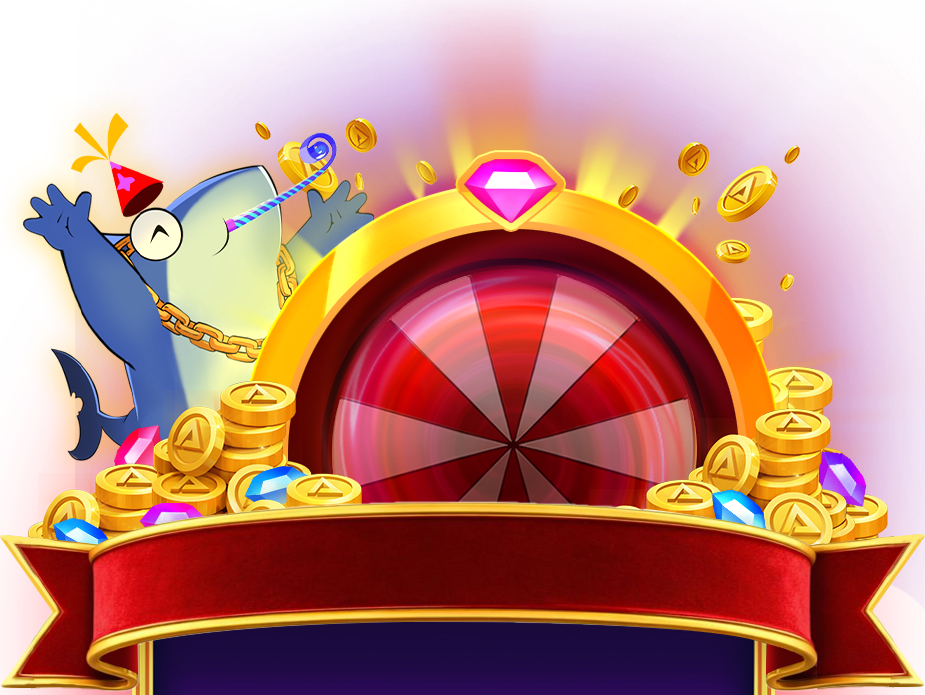
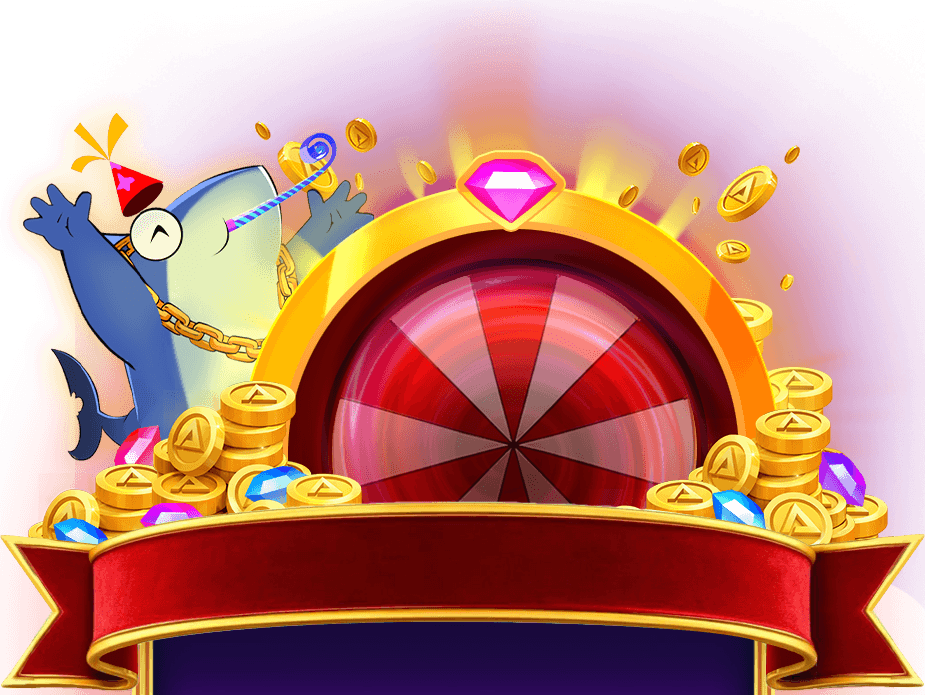
fix alignement portrait and landscape added new images

diff --git a/src/components/TournamentPopup.svelte b/src/components/TournamentPopup.svelte
@@ -489,7 +489,7 @@
         <img class="promo-image-bottom" src={promoBottom} alt="" aria-hidden="true" />
       </div>
       <div class="promo-image-overlay-content">
-        <h3 id="popup-title" class="promo-title">{title}</h3>
+        <div id="popup-title" class="promo-title">{title}</div>
         {#if mode === 'finished'}
           <div class="promo-finished-message">
             {tr('tournamentFinishedIntroMessage')} <br>
@@ -513,7 +513,8 @@
               {#each prizesToShow as prize, index}
                 {#if prize?.value !== undefined && prize?.value !== null}
                   <li>
-                    {tr('tournamentStartedPrizesMessage', { totalAmount: prize.amount })} <b>{getStartedPrizeValue(prize, index)}</b>
+                    {tr('tournamentStartedPrizesMessage', { totalAmount: prize.amount })} 
+                    <span>{getStartedPrizeValue(prize, index)}</span>
                   </li>
                 {/if}
               {/each}
@@ -546,7 +547,7 @@
       <div class="promo-actions">
         {#if showOptOutButton}
           <button
-            class="promo-image-button"
+            class="promo-image-button secondary"
             on:mouseenter={() => (secondaryButtonState = 'hover')}
             on:mouseleave={() => (secondaryButtonState = 'normal')}
             on:mousedown={() => (secondaryButtonState = 'down')}
@@ -580,25 +581,61 @@
 <style>
 :root{--primary-color: #7D4CDB;--background-front: #FFFFFF;--background-back: #EDEDED;--text-color: #000000;--secondary-text-color: #666666;--overlay-background: rgba(0, 0, 0, .5)}
 .promo-modal-overlay{position:fixed;top:0;left:0;right:0;bottom:0;background:var(--overlay-background);display:flex;align-items:center;justify-content:center;z-index:999999 !important;pointer-events:auto !important}
-.promo-image-popup{position:relative;width:min(95vw,800px);min-height:600px;border-radius:10px;overflow:hidden;box-shadow:0 8px 22px rgba(0,0,0,.35);font-family:Helvetica,Arial,sans-serif;background:transparent;pointer-events:auto}
-.promo-image-container{position:relative;width:100%;height:auto;display:flex;flex-direction:column}
-.promo-image-top{display:block;width:100%;height:auto;object-fit:contain;aspect-ratio:925/681}
-.promo-image-bottom{display:block;width:100%;height:auto;object-fit:contain;aspect-ratio:925/352}
+.promo-image-popup{position:relative;width:400px;height:470px;border-radius:10px;overflow:hidden;box-shadow:0 8px 22px rgba(0,0,0,.35);font-family:Helvetica,Arial,sans-serif;background:transparent;pointer-events:auto;transform-origin:center center}
+.promo-image-container{position:relative;width:400px;height:470px;display:flex;flex-direction:column;transform:translateY(-10px)}
+.promo-image-top{display:block;width:400px;height:auto;object-fit:contain;flex-shrink:0;aspect-ratio:925/695}
+.promo-image-bottom{display:block;width:400px;height:auto;object-fit:contain;flex-shrink:0;aspect-ratio:925/352}
 .promo-image-overlay-content{position:absolute;inset:0;background:linear-gradient(180deg,rgba(0,0,0,0),rgba(0,0,0,.35));padding:20px;color:#fff;pointer-events:none}
-.promo-title{position:absolute;left:50%;top:43%;width:calc(100% - 40px);margin:0;transform:translateX(-50%);text-align:center;font-size:28px;line-height:1.05;text-shadow:0 2px 4px rgba(0,0,0,.6)}
-.promo-image-message{position:absolute;left:50%;top:53%;width:calc(100% - 40px);transform:translateX(-50%);text-align:center;font-weight:600;text-shadow:0 1px 2px rgba(0,0,0,.6)}
-.promo-finished-message{position:absolute;left:50%;top:53%;width:calc(100% - 40px);transform:translateX(-50%);text-align:center;font-weight:600;text-shadow:0 1px 2px rgba(0,0,0,.6);margin-top:10px}
-.promo-win-value{position:absolute;left:50%;top:59%;width:calc(100% - 40px);transform:translateX(-50%);text-align:center;font-size:22px;font-weight:700;color:#fff;text-shadow:0 2px 4px rgba(0,0,0,.7)}
-.promo-win-list{top:58%;left:50%;width:max-content;max-width:calc(100% - 80px);transform:translateX(-50%);text-align:left;font-size:18px}
-.promo-win-list-ul{margin:0;padding-left:20px}
-.promo-qualifying-bet{position:absolute;left:50%;top:65%;width:calc(100% - 40px);transform:translateX(-50%);text-align:center;font-size:13px;text-shadow:0 1px 2px rgba(0,0,0,.7)}
-.promo-end-date{position:absolute;left:50%;top:70%;width:calc(100% - 40px);transform:translateX(-50%);text-align:center;font-size:14px;text-shadow:0 1px 2px rgba(0,0,0,.6)}
-.promo-terms-link{position:absolute;left:50%;top:75%;transform:translateX(-50%);background:transparent;border:0;color:#fff;text-decoration:underline dotted;cursor:pointer;font-size:13px;font-weight:600;pointer-events:auto}
-.promo-actions{position:absolute;left:50%;right:auto;bottom:58px;display:flex;justify-content:center;gap:8px;padding:0 14px;transform:translateX(-50%);pointer-events:auto}
-.promo-image-button{position:relative;border:0;background:transparent;padding:0;cursor:pointer;min-width:120px}
-.promo-image-button-bg{display:block;width:120px;height:auto;user-select:none;pointer-events:none}
-.promo-image-button-label{position:absolute;inset:0;display:flex;align-items:center;justify-content:center;color:#fff;font-size:12px;font-weight:700;letter-spacing:.4px;text-transform:uppercase;text-shadow:0 1px 2px rgba(0,0,0,.5)}
-@media (max-width: 768px){.promo-image-popup{width:95vw}.promo-image-top{aspect-ratio:925/681}.promo-image-bottom{aspect-ratio:925/352}.promo-image-overlay-content{inset:0;padding:14px}.promo-title{top:22%;width:calc(100% - 24px);font-size:22px}.promo-image-message{top:51%;width:calc(100% - 24px)}.promo-finished-message{top:51%;width:calc(100% - 24px);font-size:14px}.promo-win-value{top:56%;width:calc(100% - 24px);font-size:20px}.promo-win-list{top:58%;max-width:calc(100% - 40px);font-size:16px}.promo-qualifying-bet{top:63%;width:calc(100% - 24px);font-size:12px}.promo-end-date{top:69%;width:calc(100% - 24px);font-size:12px}.promo-terms-link{top:74%;font-size:12px}.promo-actions{gap:8px;bottom:clamp(35px, 6vh, 50px)}.promo-image-button,.promo-image-button-bg{width:120px;min-width:120px}.promo-image-button-label{font-size:12px}}
+.promo-title{position:absolute;left:50%;top:225px;width:360px;margin:0;transform:translateX(-50%);text-align:center;font-family:'Roboto-Bold',sans-serif;font-size:20px;font-weight:bolder;line-height:1.05;color:#ffff00;-webkit-text-stroke:0.5px #000000}
+.promo-image-message{position:absolute;left:50%;top:269px;width:360px;transform:translateX(-50%);text-align:center;font-weight:600;font-size:12px;color:#ffff00;text-shadow:0 1px 2px rgba(0,0,0,.6)}
+.promo-finished-message{position:absolute;left:50%;top:261px;width:360px;transform:translateX(-50%);text-align:center;font-weight:600;font-size:12px;text-shadow:0 1px 2px rgba(0,0,0,.6);margin-top:5px}
+.promo-win-value{position:absolute;left:50%;top:287px;width:360px;transform:translateX(-50%);text-align:center;font-size:16px;color:#ffffff;-webkit-text-stroke:0.5px #ee141a}
+.prize-text-small{position:relative;font-family:'Roboto-Bold',sans-serif;font-weight:bolder;display:inline-block;color:#ffffff;-webkit-text-stroke:0.5px #ee141a}
+.promo-win-list{top:282px;left:50%;width:max-content;max-width:320px;transform:translateX(-50%);text-align:center;font-size:12px}
+.promo-win-list-ul{margin:0;padding-left:0;list-style:none}
+.promo-qualifying-bet{position:absolute;left:50%;top:385px;width:360px;transform:translateX(-50%);text-align:center;font-size:7px;text-shadow:0 1px 2px rgba(0,0,0,.7)}
+.promo-end-date{position:absolute;left:50%;top:397px;width:360px;transform:translateX(-50%);text-align:center;font-size:7px;text-shadow:0 1px 2px rgba(0,0,0,.6)}
+.promo-terms-link{position:absolute;left:50%;top:409px;transform:translateX(-50%);background:transparent;border:0;color:#fff;text-decoration:underline dotted;cursor:pointer;font-size:7px;font-weight:600}
+.promo-actions{position:absolute;left:50%;right:auto;bottom:11px;display:flex;justify-content:center;gap:4px;padding:0 7px;transform:translateX(-50%);pointer-events:auto}
+.promo-image-button{position:relative;border:0;background:transparent;padding:0;cursor:pointer;min-width:60px}
+.promo-image-button-bg{display:block;width:60px;height:auto;user-select:none;pointer-events:none}
+.promo-image-button-label{position:absolute;inset:0;display:flex;align-items:center;justify-content:center;font-family:'Roboto',Arial,sans-serif;font-size:9px;font-weight:900;letter-spacing:.2px;text-transform:uppercase;color:#000000 !important}
+.promo-image-button.secondary .promo-image-button-label{color:#000000 !important}
+/* Responsive scaling uniforme */
+@media (min-width: 700px) {
+  .promo-image-popup {
+    transform: scale(1.3);
+  }
+}
 
-@media (orientation: landscape){.promo-image-popup{transform:scale(0.8);transform-origin:center}}
+@media (min-width: 900px) {
+  .promo-image-popup {
+    transform: scale(1.6);
+  }
+}
+
+@media (max-width: 399px) {
+  .promo-image-popup {
+    transform: scale(0.9);
+  }
+}
+
+@media (max-height: 470px) {
+  .promo-image-popup {
+    transform: scale(0.8);
+  }
+}
+
+@media (max-height: 368px) {
+  .promo-image-popup {
+    transform: scale(0.7);
+  }
+}
+
+/* Per schermi molto piccoli */
+@media (max-width: 320px) or (max-height: 300px) {
+  .promo-image-popup {
+    transform: scale(0.6);
+  }
+}
 </style>

diff --git a/src/components/PrizeDropPopup.svelte b/src/components/PrizeDropPopup.svelte
@@ -341,7 +341,7 @@
         <img class="promo-image-bottom" src={promoBottom} alt="" aria-hidden="true" />
       </div>
       <div class="promo-image-overlay-content">
-        <h3 id="popup-title" class="promo-title">{title}</h3>
+        <div id="popup-title" class="promo-title">{title}</div>
         <div class="promo-image-message">{message}</div>
 
         {#if mode === 'prizeWon'}
@@ -392,7 +392,7 @@
       <div class="promo-actions">
         {#if showOptOutButton}
           <button
-            class="promo-image-button"
+            class="promo-image-button secondary"
             on:mouseenter={() => (secondaryButtonState = 'hover')}
             on:mouseleave={() => (secondaryButtonState = 'normal')}
             on:mousedown={() => (secondaryButtonState = 'down')}
@@ -427,29 +427,65 @@
 :root{--primary-color: #7D4CDB;--background-front: #FFFFFF;--background-back: #EDEDED;--text-color: #000000;--secondary-text-color: #666666;--overlay-background: rgba(0, 0, 0, .5)}
 body.dark-theme{--primary-color: #7D4CDB;--background-front: #222222;--background-back: #333333;--text-color: #FFFFFF;--secondary-text-color: #CCCCCC}
 .promo-modal-overlay{position:fixed;top:0;left:0;right:0;bottom:0;background:var(--overlay-background);display:flex;align-items:center;justify-content:center;z-index:999999 !important;pointer-events:auto !important}
-.promo-image-popup{position:relative;width:min(95vw,800px);min-height:600px;border-radius:10px;overflow:hidden;box-shadow:0 8px 22px rgba(0,0,0,.35);font-family:Helvetica,Arial,sans-serif;background:transparent;pointer-events:auto}
-.promo-images-container{display:flex;flex-direction:column;width:100%;min-height:600px}
+.promo-image-popup{position:relative;width:400px;height:467px;border-radius:10px;overflow:hidden;box-shadow:0 8px 22px rgba(0,0,0,.35);font-family:Helvetica,Arial,sans-serif;background:transparent;pointer-events:auto;transform-origin:center center}
+.promo-images-container{display:flex;flex-direction:column;width:400px;height:467px;transform:translateY(-7px)}
+
 .promo-image-top{display:block;width:100%;height:auto;object-fit:contain;flex-shrink:0;aspect-ratio:925/681}
 .promo-image-bottom{display:block;width:100%;height:auto;object-fit:contain;flex-shrink:0;aspect-ratio:925/352}
 .promo-image-overlay-content{position:absolute;inset:0;background:linear-gradient(180deg,rgba(0,0,0,0),rgba(0,0,0,.35));padding:20px;color:#fff;pointer-events:none}
-.promo-title{position:absolute;left:50%;top:43%;width:calc(100% - 40px);margin:0;transform:translateX(-50%);text-align:center;font-size:28px;line-height:1.05;text-shadow:0 2px 4px rgba(0,0,0,.6)}
-.promo-image-message{position:absolute;left:50%;top:53%;width:calc(100% - 40px);transform:translateX(-50%);text-align:center;font-weight:600;text-shadow:0 1px 2px rgba(0,0,0,.6)}
-.promo-win-value{position:absolute;left:50%;top:58%;width:calc(100% - 40px);transform:translateX(-50%);text-align:center;font-size:26px;font-weight:800;color:#fff;text-shadow:0 2px 4px rgba(0,0,0,.7)}
-.promo-qualifying-bet{position:absolute;left:50%;top:64%;width:calc(100% - 40px);transform:translateX(-50%);text-align:center;font-size:13px;text-shadow:0 1px 2px rgba(0,0,0,.7)}
-.promo-prizes-list{position:absolute;left:50%;top:58%;width:calc(100% - 40px);max-width:400px;transform:translateX(-50%);background:rgba(0,0,0,.15);border-radius:8px;padding:12px;backdrop-filter:blur(4px)}
-.promo-prize-item{display:flex;justify-content:space-between;align-items:center;margin-bottom:8px;font-size:13px;line-height:1.3}
+.promo-title{position:absolute;left:50%;top:239px;width:360px;margin:0;transform:translateX(-50%);text-align:center;font-family:'Roboto-Bold',sans-serif;font-size:20px;font-weight:bolder;line-height:1.05;color:#ffff00;-webkit-text-stroke:0.5px #000000}
+.promo-image-message{position:absolute;left:50%;top:273px;width:360px;transform:translateX(-50%);text-align:center;font-weight:600;font-size:12px;color:#ffff00;text-shadow:0 1px 2px rgba(0,0,0,.6)}
+.promo-win-value{position:absolute;left:50%;top:284px;width:360px;transform:translateX(-50%);text-align:center;font-size:16px;color:#ffffff;-webkit-text-stroke:0.1px #ee141a}
+.prize-text-small{position:relative;font-family:'Roboto-Bold',sans-serif;font-weight:bolder;display:inline-block;color:#ffffff;-webkit-text-stroke:0.1px #ee141a}
+.promo-qualifying-bet{position:absolute;left:50%;top:389px;width:360px;transform:translateX(-50%);text-align:center;font-size:7px;text-shadow:0 1px 2px rgba(0,0,0,.7)}
+.promo-prizes-list{position:absolute;left:50%;top:284px;width:340px;max-width:340px;transform:translateX(-50%);border-radius:4px;padding:6px;display:grid;grid-template-columns:1fr 1fr;gap:6px}
+.promo-prize-item{display:flex;flex-direction:row;justify-content:center;align-items:center;margin-bottom:0;font-size:15px;line-height:1.3;font-family:'Roboto',Arial,sans-serif;font-weight:900;gap:2px}
 .promo-prize-item:last-child{margin-bottom:0}
-.promo-prize-left{color:#fff;flex:1;text-align:left}
-.promo-prize-value{color:#fff;font-weight:700;text-align:right;margin-left:8px}
+.promo-prize-left{color:#ffffff;-webkit-text-stroke:0.1px #ee141a;text-align:center}
+.promo-prize-value{color:#ffffff;-webkit-text-stroke:0.1px #ee141a;text-align:center}
 .promo-prize-more{justify-content:center;font-style:italic;color:#ddd}
-.promo-end-date{position:absolute;left:50%;top:70%;width:calc(100% - 40px);transform:translateX(-50%);text-align:center;font-size:14px;text-shadow:0 1px 2px rgba(0,0,0,.6)}
-.promo-terms-link{position:absolute;left:50%;top:75%;transform:translateX(-50%);background:transparent;border:0;color:#fff;text-decoration:underline dotted;cursor:pointer;font-size:13px;font-weight:600}
-.promo-terms-link{position:absolute;left:50%;top:75%;transform:translateX(-50%);background:transparent;border:0;color:#fff;text-decoration:underline dotted;cursor:pointer;font-size:13px;font-weight:600;pointer-events:auto}
-.promo-actions{position:absolute;left:50%;right:auto;bottom:58px;display:flex;justify-content:center;gap:8px;padding:0 14px;transform:translateX(-50%);pointer-events:auto}
-.promo-image-button{position:relative;border:0;background:transparent;padding:0;cursor:pointer;min-width:120px}
-.promo-image-button-bg{display:block;width:120px;height:auto;user-select:none;pointer-events:none}
-.promo-image-button-label{position:absolute;inset:0;display:flex;align-items:center;justify-content:center;color:#fff;font-size:12px;font-weight:700;letter-spacing:.4px;text-transform:uppercase;text-shadow:0 1px 2px rgba(0,0,0,.5)}
-@media (max-width: 768px){.promo-image-popup{width:95vw;transform:scale(1)}.promo-images-container{max-height:88vh}.promo-image-overlay-content{inset:0;padding:14px}.promo-title{top:22%;width:calc(100% - 24px);font-size:22px}.promo-image-message{top:51%;width:calc(100% - 24px)}.promo-win-value{top:50%;width:calc(100% - 24px);font-size:22px}.promo-qualifying-bet{top:64%;width:calc(100% - 24px);font-size:12px}.promo-prizes-list{top:58%;width:calc(100% - 24px);padding:10px;font-size:12px}.promo-end-date{top:70%;width:calc(100% - 24px);font-size:12px}.promo-terms-link{top:73%;font-size:12px}.promo-actions{gap:8px;bottom:58px}.promo-image-button,.promo-image-button-bg{width:120px;min-width:120px}.promo-image-button-label{font-size:12px}}
+.promo-end-date{position:absolute;left:50%;top:401px;width:360px;transform:translateX(-50%);text-align:center;font-size:7px;text-shadow:0 1px 2px rgba(0,0,0,.6)}
+.promo-terms-link{position:absolute;left:50%;top:413px;transform:translateX(-50%);background:transparent;border:0;color:#fff;text-decoration:underline dotted;cursor:pointer;font-size:7px;font-weight:600;pointer-events:auto}
+.promo-actions{position:absolute;left:50%;right:auto;bottom:-7px;display:flex;justify-content:center;gap:4px;padding:0 7px;transform:translateX(-50%);pointer-events:auto}
+.promo-image-button{position:relative;border:0;background:transparent;padding:0;cursor:pointer;min-width:60px}
+.promo-image-button-bg{display:block;width:60px;height:auto;user-select:none;pointer-events:none}
+.promo-image-button-label{position:absolute;inset:0;display:flex;align-items:center;justify-content:center;font-family:'Roboto',Arial,sans-serif;font-size:9px;font-weight:900;letter-spacing:.2px;text-transform:uppercase;color:#000000 !important}
+.promo-image-button.secondary .promo-image-button-label{color:#000000 !important}
+/* Responsive scaling più ragionevole */
+@media (min-width: 700px) {
+  .promo-image-popup {
+    transform: scale(1.3);
+  }
+}
 
-@media (orientation: landscape){.promo-image-popup{transform:scale(0.8);transform-origin:center}}
+@media (min-width: 900px) {
+  .promo-image-popup {
+    transform: scale(1.6);
+  }
+}
+
+@media (max-width: 399px) {
+  .promo-image-popup {
+    transform: scale(0.9);
+  }
+}
+
+@media (max-height: 460px) {
+  .promo-image-popup {
+    transform: scale(0.8);
+  }
+}
+
+@media (max-height: 368px) {
+  .promo-image-popup {
+    transform: scale(0.7);
+  }
+}
+
+/* Per schermi molto piccoli */
+@media (max-width: 300px) or (max-height: 280px) {
+  .promo-image-popup {
+    transform: scale(0.6);
+  }
+}
 </style>

diff --git a/src/components/FreeBetsPopup.svelte b/src/components/FreeBetsPopup.svelte
@@ -243,12 +243,12 @@
           <div class="promo-fs-hero" aria-label="Remaining free spins">
             {freeBetsCount}
           </div>
-        <h3
+        <div
           id="popup-title"
           class="promo-title"
         >
           {title}
-        </h3>
+        </div>
         <div class="promo-image-message">{message}</div>
 
         <div class="promo-info-grid">
@@ -272,7 +272,7 @@
       <div class="promo-actions">
         {#if showOptOutButton}
           <button
-            class="promo-image-button"
+            class="promo-image-button secondary"
             on:mouseenter={() => (secondaryButtonState = 'hover')}
             on:mouseleave={() => (secondaryButtonState = 'normal')}
             on:mousedown={() => (secondaryButtonState = 'down')}
@@ -307,24 +307,59 @@
 :root{--primary-color: #7D4CDB;--background-front: #FFFFFF;--background-back: #EDEDED;--text-color: #000000;--secondary-text-color: #666666;--overlay-background: rgba(0, 0, 0, .5)}
 body.dark-theme{--primary-color: #7D4CDB;--background-front: #222222;--background-back: #333333;--text-color: #FFFFFF;--secondary-text-color: #CCCCCC}
 .promo-modal-overlay{position:fixed;top:0;left:0;right:0;bottom:0;background:var(--overlay-background);display:flex;align-items:center;justify-content:center;z-index:999999 !important}
-.promo-image-popup{position:relative;width:min(95vw,800px);min-height:600px;border-radius:10px;overflow:hidden;box-shadow:0 8px 22px rgba(0,0,0,.35);font-family:Helvetica,Arial,sans-serif;background:transparent}
-.promo-image-container{position:relative;width:100%;height:auto;display:flex;flex-direction:column}
-.promo-image-top{display:block;width:100%;height:auto;object-fit:contain;aspect-ratio:925/681}
-.promo-image-bottom{display:block;width:100%;height:auto;object-fit:contain;aspect-ratio:925/352}
+.promo-image-popup{position:relative;width:400px;height:470px;border-radius:10px;overflow:hidden;box-shadow:0 8px 22px rgba(0,0,0,.35);font-family:Helvetica,Arial,sans-serif;background:transparent;transform-origin:center center}
+.promo-image-container{position:relative;width:400px;height:470px;display:flex;flex-direction:column;transform:translateY(-10px)}
+.promo-image-top{display:block;width:400px;height:auto;object-fit:contain;flex-shrink:0;aspect-ratio:925/695}
+.promo-image-bottom{display:block;width:400px;height:auto;object-fit:contain;flex-shrink:0;aspect-ratio:925/352}
 .promo-image-overlay-content{position:absolute;inset:0;background:linear-gradient(180deg,rgba(0,0,0,0),rgba(0,0,0,.35));padding:20px;color:#fff;pointer-events:none}
-.promo-fs-hero{position:absolute;left:50%;top:22%;transform:translateX(-50%);font-size:88px;line-height:1;font-weight:900;color:#fff;-webkit-text-stroke:2px #d4af37;text-shadow:0 2px 6px rgba(0,0,0,.55),0 0 6px rgba(212,175,55,.35)}
-.promo-title{position:absolute;left:50%;top:43%;width:calc(100% - 40px);margin:0;transform:translateX(-50%);text-align:center;font-size:28px;line-height:1.05;text-shadow:0 2px 4px rgba(0,0,0,.6)}
-.promo-image-message{position:absolute;left:50%;top:52%;width:calc(100% - 40px);transform:translateX(-50%);text-align:center;font-weight:600;text-shadow:0 1px 2px rgba(0,0,0,.6)}
-.promo-end-date{position:absolute;left:50%;top:72%;width:calc(100% - 40px);transform:translateX(-50%);text-align:center;font-size:14px;text-shadow:0 1px 2px rgba(0,0,0,.6)}
-.promo-actions{position:absolute;left:50%;right:auto;bottom:41px;display:flex;justify-content:center;gap:14px;padding:0 14px;transform:translateX(-50%)}
-.promo-image-button{position:relative;border:0;background:transparent;padding:0;cursor:pointer;min-width:122px}
-.promo-image-button-bg{display:block;width:122px;height:auto;user-select:none;pointer-events:none}
-.promo-image-button-label{position:absolute;inset:0;display:flex;align-items:center;justify-content:center;color:#fff;font-size:14px;font-weight:700;letter-spacing:.4px;text-transform:uppercase;text-shadow:0 1px 2px rgba(0,0,0,.5)}
-.promo-info-grid{display:flex;justify-content:center;align-items:center;gap:50px;position:absolute;left:50%;top:58%;width:max-content;transform:translateX(-50%);margin:0}
+.promo-fs-hero{position:absolute;left:50%;top:110px;transform:translateX(-50%);font-size:88px;line-height:1;font-weight:900;color:#fff;-webkit-text-stroke:2px #d4af37;text-shadow:0 2px 6px rgba(0,0,0,.55),0 0 6px rgba(212,175,55,.35)}
+.promo-title{position:absolute;left:50%;top:227px;width:360px;margin:0;transform:translateX(-50%);text-align:center;font-family:'Roboto-Bold',sans-serif;font-size:20px;font-weight:bolder;line-height:1.05;color:#ffff00;-webkit-text-stroke:0.5px #000000}
+.promo-image-message{position:absolute;left:50%;top:261px;width:360px;transform:translateX(-50%);text-align:center;font-weight:600;font-size:12px;color:#ffff00;text-shadow:0 1px 2px rgba(0,0,0,.6)}
+.promo-end-date{position:absolute;left:50%;top:389px;width:360px;transform:translateX(-50%);text-align:center;font-size:7px;text-shadow:0 1px 2px rgba(0,0,0,.6)}
+.promo-actions{position:absolute;left:50%;right:auto;bottom:12px;display:flex;justify-content:center;gap:4px;padding:0 7px;transform:translateX(-50%)}
+.promo-image-button{position:relative;border:0;background:transparent;padding:0;cursor:pointer;min-width:60px}
+.promo-image-button-bg{display:block;width:60px;height:auto;user-select:none;pointer-events:none}
+.promo-image-button-label{position:absolute;inset:0;display:flex;align-items:center;justify-content:center;font-family:'Roboto',Arial,sans-serif;font-size:9px;font-weight:900;letter-spacing:.2px;text-transform:uppercase;color:#000000 !important}
+.promo-image-button.secondary .promo-image-button-label{color:#000000 !important}
+.promo-info-grid{display:flex;justify-content:center;align-items:center;gap:25px;position:absolute;left:50%;top:289px;width:max-content;transform:translateX(-50%);margin:0}
 .promo-info-card{background:transparent;padding:0;border-radius:0;text-align:center;backdrop-filter:none}
-.promo-info-label{font-size:12px;color:#fff;opacity:.95;margin-bottom:6px}
-.promo-info-value{font-size:22px;font-weight:700;color:#fff}
-@media (max-width: 768px){.promo-image-popup{width:95vw}.promo-image-top{aspect-ratio:925/681}.promo-image-bottom{aspect-ratio:925/352}.promo-image-overlay-content{inset:0;padding:14px}.promo-fs-hero{top:10%;font-size:34px;-webkit-text-stroke:1.5px #d4af37}.promo-title{top:22%;width:calc(100% - 24px);font-size:22px}.promo-image-message{top:39%;width:calc(100% - 24px)}.promo-info-grid{top:58%;gap:28px}.promo-end-date{top:70%;width:calc(100% - 24px)}.promo-actions{gap:8px;bottom:58px}.promo-image-button,.promo-image-button-bg{width:96px;min-width:96px}.promo-image-button-label{font-size:12px}}
+.promo-info-label{font-size:8px;color:#fff;opacity:.95;margin-bottom:3px}
+.promo-info-value{font-size:16px;font-weight:700;color:#fff}
+/* Responsive scaling uniforme */
+@media (min-width: 700px) {
+  .promo-image-popup {
+    transform: scale(1.3);
+  }
+}
 
-@media (orientation: landscape){.promo-image-popup{transform:scale(0.8);transform-origin:center}}
+@media (min-width: 900px) {
+  .promo-image-popup {
+    transform: scale(1.6);
+  }
+}
+
+@media (max-width: 399px) {
+  .promo-image-popup {
+    transform: scale(0.9);
+  }
+}
+
+@media (max-height: 470px) {
+  .promo-image-popup {
+    transform: scale(0.8);
+  }
+}
+
+@media (max-height: 368px) {
+  .promo-image-popup {
+    transform: scale(0.7);
+  }
+}
+
+/* Per schermi molto piccoli */
+@media (max-width: 320px) or (max-height: 300px) {
+  .promo-image-popup {
+    transform: scale(0.6);
+  }
+}
 </style>
